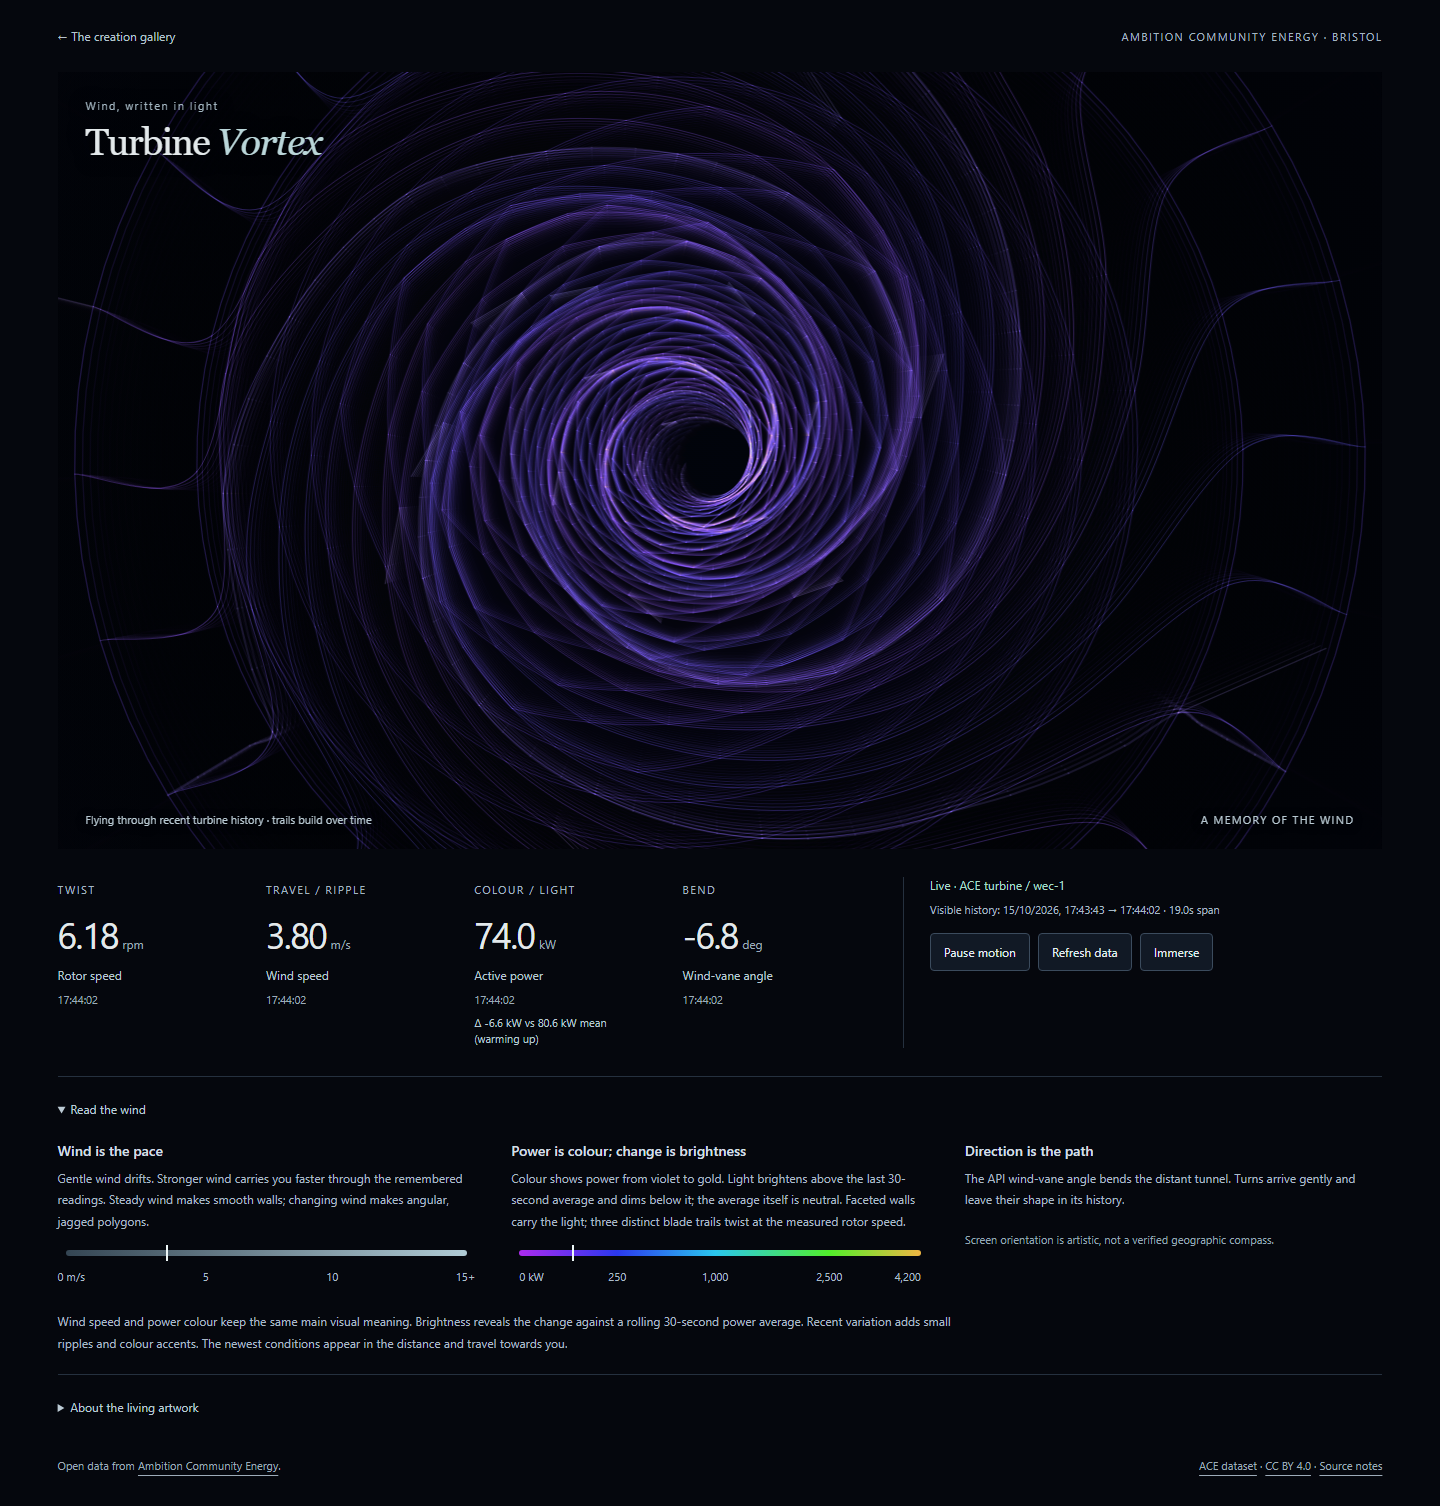
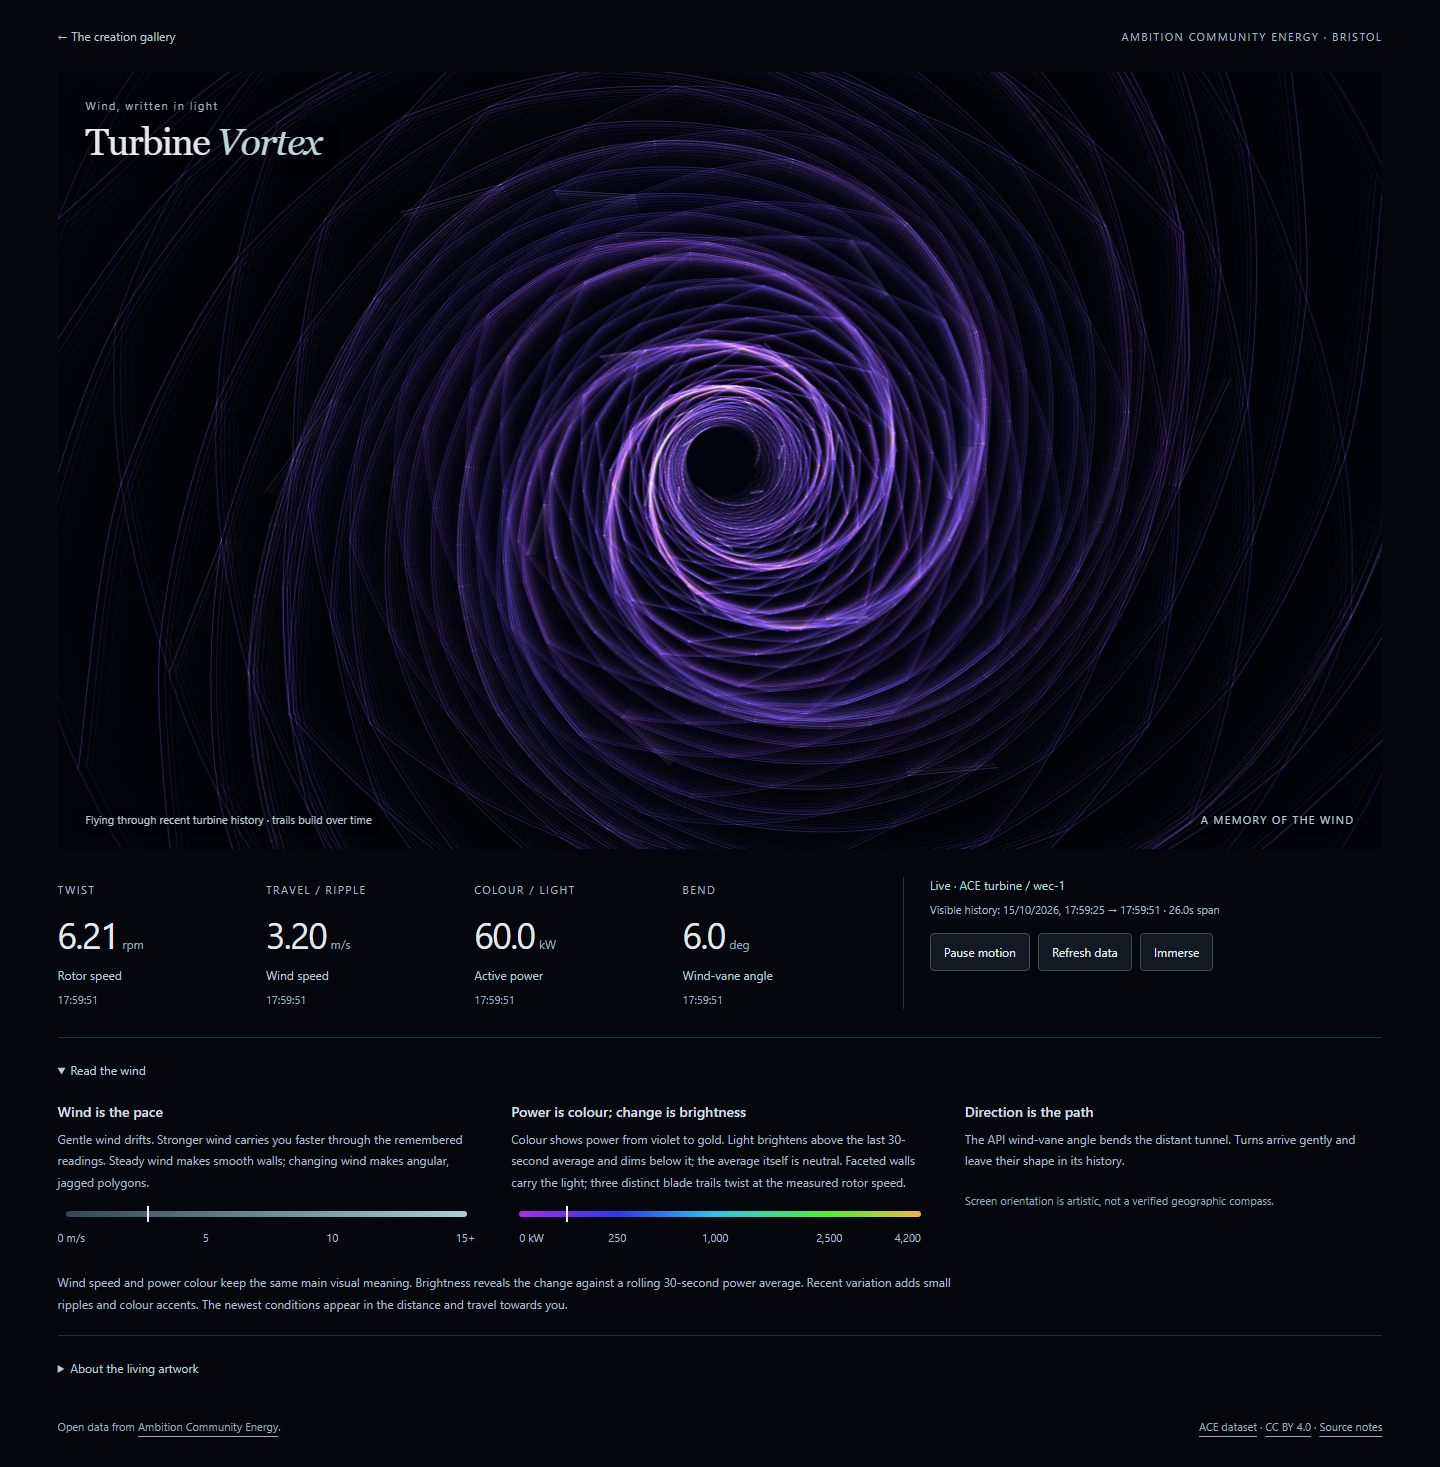
Remove power deviation readout from artwork display

diff --git a/site/creations/turbine-vortex/index.html b/site/creations/turbine-vortex/index.html
@@ -11,7 +11,7 @@
 <section class="instrument" aria-label="Turbine observations and artwork controls"><div class="readings">
 <div><span class="eyebrow">TWIST</span><p><strong id="rpm">—</strong> <span>rpm</span></p><span class="label">Rotor speed</span><time id="rpm-time">No observation</time></div>
 <div><span class="eyebrow">TRAVEL / RIPPLE</span><p><strong id="wind">—</strong> <span>m/s</span></p><span class="label">Wind speed</span><time id="wind-time">No observation</time></div>
-<div><span class="eyebrow">COLOUR / LIGHT</span><p><strong id="power">—</strong> <span>kW</span></p><span class="label">Active power</span><time id="power-time">No observation</time><span id="power-change" class="power-change">30s mean pending</span></div>
+<div><span class="eyebrow">COLOUR / LIGHT</span><p><strong id="power">—</strong> <span>kW</span></p><span class="label">Active power</span><time id="power-time">No observation</time></div>
 <div><span class="eyebrow">BEND</span><p><strong id="direction">—</strong> <span>deg</span></p><span class="label">Wind-vane angle</span><time id="direction-time">No observation</time></div>
 </div><div class="connection"><p id="status" role="status">Connecting to ACE…</p><p id="observed">No readings yet</p><div class="controls"><button id="pause" type="button" aria-pressed="false">Pause motion</button><button id="refresh" type="button">Refresh data</button><button id="fullscreen" type="button">Immerse</button></div></div></section>
 <details class="reading-guide" open><summary>Read the wind</summary><div class="legend-grid">

diff --git a/site/creations/turbine-vortex/style.css b/site/creations/turbine-vortex/style.css
@@ -337,6 +337,5 @@ height:48px}
 transition:none}
 }
 
-.power-change { display:block; font-size:11px; line-height:1.5; color:#b8c9d2; margin-top:6px; max-width:180px; }
 
 main:fullscreen .art-caption { display:none; }

diff --git a/site/creations/turbine-vortex/browser-check.py b/site/creations/turbine-vortex/browser-check.py
@@ -68,7 +68,7 @@ def run():
         before_auto = len(requests)
         page.wait_for_timeout(6500)
         assert len(requests) >= before_auto + 2, 'Automatic polling stopped without manual refresh'
-        assert 'kW mean' in page.locator('#power-change').inner_text()
+        assert page.locator('#power-change').count() == 0
         page.evaluate("for(let i=0;i<30;i++) document.querySelector('#refresh').click()")
         page.wait_for_timeout(200)
         page.locator('#pause').click()

diff --git a/site/creations/turbine-vortex/README.md b/site/creations/turbine-vortex/README.md
@@ -28,7 +28,7 @@ Rotor angular velocity is `RPM × 2π/60 × 1.0`, capped at 30 RPM as an artisti
 
 The main meanings stay stable across visits: wind travel uses `clamp(wind/15)` and power uses `clamp(power/4200)`. Fifteen m/s is an artistic scale ceiling, not a rated turbine limit. The 4200 kW value is the nominal turbine power documented in the API introduction. Negative power remains visible but maps to the zero-generation colour. Wind and power each also use five minutes of fresh, distinct observations for small detail accents. Their 10th–90th percentile ranges resist spikes; the range adapts with a 30-second time constant and minimum spans of **1.5 m/s** and **250 kW**. Adaptive power changes ring hue by at most ±6 degrees. Absolute wind modulates light-wave spacing. Adaptation does not remap the main flight speed, palette or streak density. Duplicate observations do not overweight the history. No historical API request is made. Rotation, wind, colour and detail targets ease over 2.5 seconds; brightness uses a faster 0.6-second time constant.
 
-Wind controls light-wave spacing and camera speed `0.4 + 1.2 × clamp(wind/15)` in artistic depth units per second. Fixed power colour uses `sqrt(clamp(power/4200))` to move from hue 280 (violet) to 190 (cyan) to 40 (gold), revealing detail at low output without adapting the main meaning. The guide labels 0, 250, 1000, 2500 and 4200 kW on that same scale. Higher absolute power also creates more bright streaks. Brightness instead shows deviation from a **time-weighted trailing 30-second power mean**, calculated from distinct observation timestamps as a piecewise-constant signal. The current sample has zero duration when it first arrives; earlier readings contribute according to how long they applied. Brightness is `0.5 + 0.35 × clamp((power - mean) / max(25 kW, abs(mean) × 0.05), -1, 1)`: above-average power brightens, below-average power dims, and the mean is neutral. The minimum 25 kW span limits noise amplification. The readout shows the mean and signed difference, with a warming-up label until 30 seconds of observations are available. A gap longer than 60 seconds resets the mean. Each emitted layer retains its original relative brightness as it travels. These mappings express conditions rather than simulate physics or energy totals.
+Wind controls light-wave spacing and camera speed `0.4 + 1.2 × clamp(wind/15)` in artistic depth units per second. Fixed power colour uses `sqrt(clamp(power/4200))` to move from hue 280 (violet) to 190 (cyan) to 40 (gold), revealing detail at low output without adapting the main meaning. The guide labels 0, 250, 1000, 2500 and 4200 kW on that same scale. Higher absolute power also creates more bright streaks. Brightness instead shows deviation from a **time-weighted trailing 30-second power mean**, calculated from distinct observation timestamps as a piecewise-constant signal. The current sample has zero duration when it first arrives; earlier readings contribute according to how long they applied. Brightness is `0.5 + 0.35 × clamp((power - mean) / max(25 kW, abs(mean) × 0.05), -1, 1)`: above-average power brightens, below-average power dims, and the mean is neutral. The minimum 25 kW span limits noise amplification. The mean and deviation drive the artwork internally; the display shows only the measured active power. A gap longer than 60 seconds resets the mean. Each emitted layer retains its original relative brightness as it travels. These mappings express conditions rather than simulate physics or energy totals.
 
 Vane direction is wrapped to [-180,180) for rendering, with an eight-second time constant and shortest-arc easing across wraparound. Each layer remembers its angle. Sine/cosine project it onto a bounded screen bend, strongest in the distance; historical bends travel towards the viewer. Screen-up/left/right are artistic orientations, not geographic bearings. No nacelle angle or unverified compass transformation is inferred.
 
